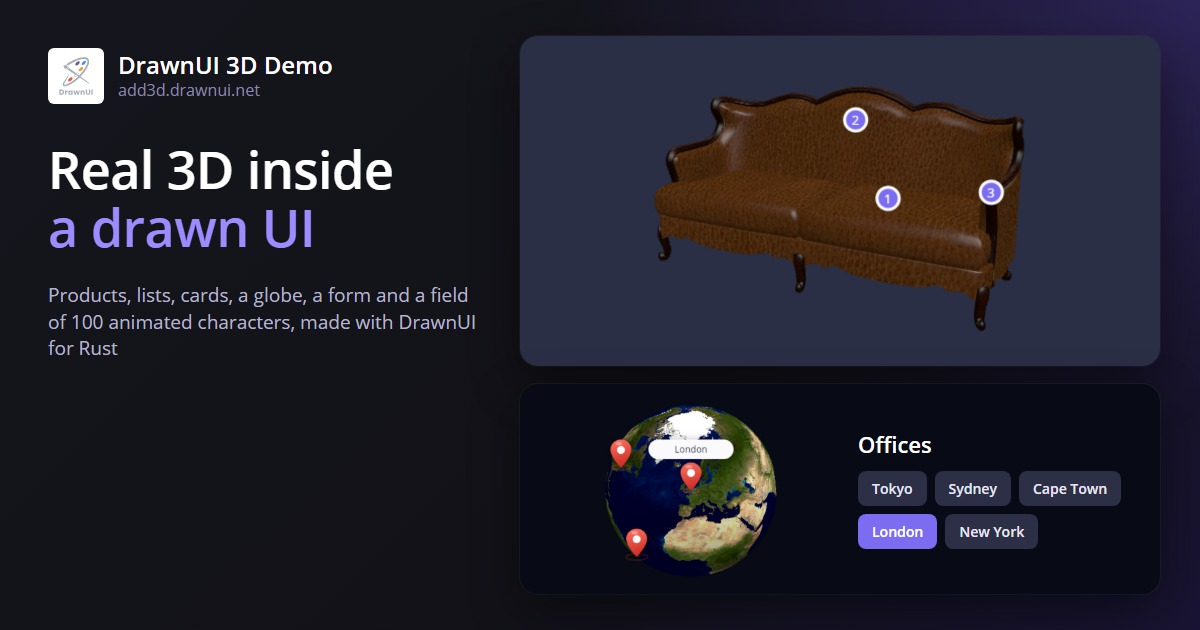
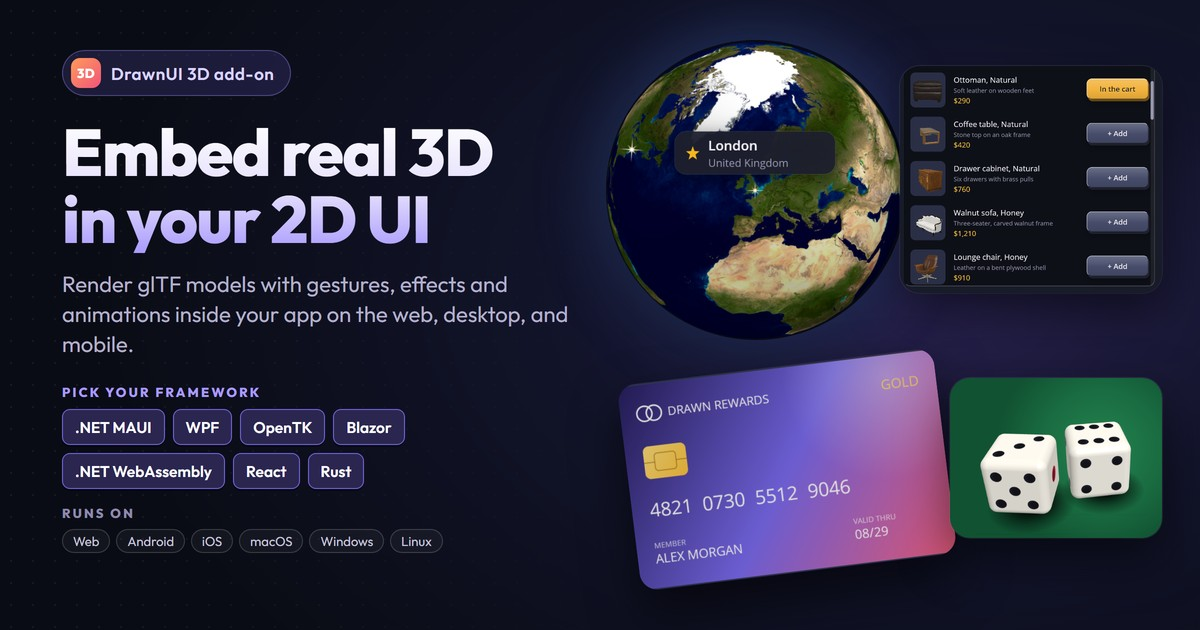
3D gallery site: the new share image and description
The approved banner (1200x630) is the share image; og:description and
twitter:description read: Render glTF models with gestures, effects and
animations inside your app on the web, desktop, and mobile.

diff --git a/examples/gallery3d/web/index.html b/examples/gallery3d/web/index.html
@@ -21,23 +21,23 @@
     <meta property="og:title" content="Real 3D inside a drawn UI, with DrawnUI for Rust" />
     <meta
       property="og:description"
-      content="A product viewer, a shop list, cards, a globe, a form and a field of 100 animated characters: real glTF models inside a Skia-drawn UI, running in your browser."
+      content="Render glTF models with gestures, effects and animations inside your app on the web, desktop, and mobile."
     />
-    <meta property="og:image" content="https://add3d.drawnui.net/og.jpg?v=92c4f56a78" />
+    <meta property="og:image" content="https://add3d.drawnui.net/og.jpg?v=a2e66acb68" />
     <meta property="og:image:type" content="image/jpeg" />
     <meta property="og:image:width" content="1200" />
     <meta property="og:image:height" content="630" />
-    <meta property="og:image:alt" content="A walnut sofa in a 3D product viewer above a field of 100 animated 3D characters, drawn with DrawnUI for Rust" />
+    <meta property="og:image:alt" content="DrawnUI 3D add-on: embed real 3D in your 2D UI. A globe with a London pin, a shop list with 3D thumbnails, a rewards card and dice, for .NET MAUI, WPF, OpenTK, Blazor, .NET WebAssembly, React and Rust" />
     <meta property="og:locale" content="en_US" />
 
     <meta name="twitter:card" content="summary_large_image" />
     <meta name="twitter:title" content="Real 3D inside a drawn UI, with DrawnUI for Rust" />
     <meta
       name="twitter:description"
-      content="A product viewer, a shop list, cards, a globe, a form and a field of 100 animated characters: real glTF models inside a Skia-drawn UI, running in your browser."
+      content="Render glTF models with gestures, effects and animations inside your app on the web, desktop, and mobile."
     />
-    <meta name="twitter:image" content="https://add3d.drawnui.net/og.jpg?v=92c4f56a78" />
-    <meta name="twitter:image:alt" content="A walnut sofa in a 3D product viewer above a field of 100 animated 3D characters, drawn with DrawnUI for Rust" />
+    <meta name="twitter:image" content="https://add3d.drawnui.net/og.jpg?v=a2e66acb68" />
+    <meta name="twitter:image:alt" content="DrawnUI 3D add-on: embed real 3D in your 2D UI. A globe with a London pin, a shop list with 3D thumbnails, a rewards card and dice, for .NET MAUI, WPF, OpenTK, Blazor, .NET WebAssembly, React and Rust" />
 
     <script type="application/ld+json">
       {
@@ -45,7 +45,7 @@
         "@type": "WebApplication",
         "name": "DrawnUI 3D",
         "url": "https://add3d.drawnui.net/",
-        "image": "https://add3d.drawnui.net/og.jpg?v=92c4f56a78",
+        "image": "https://add3d.drawnui.net/og.jpg?v=a2e66acb68",
         "description": "Real 3D models inside a drawn UI, in the browser: a product viewer, a shop list with live 3D thumbnails, cards, a globe with pins, a form with a 3D mascot and a field of 100 animated characters, in a 3D or hand-drawn look. Made with DrawnUI for Rust.",
         "applicationCategory": "DeveloperApplication",
         "operatingSystem": "Any",
